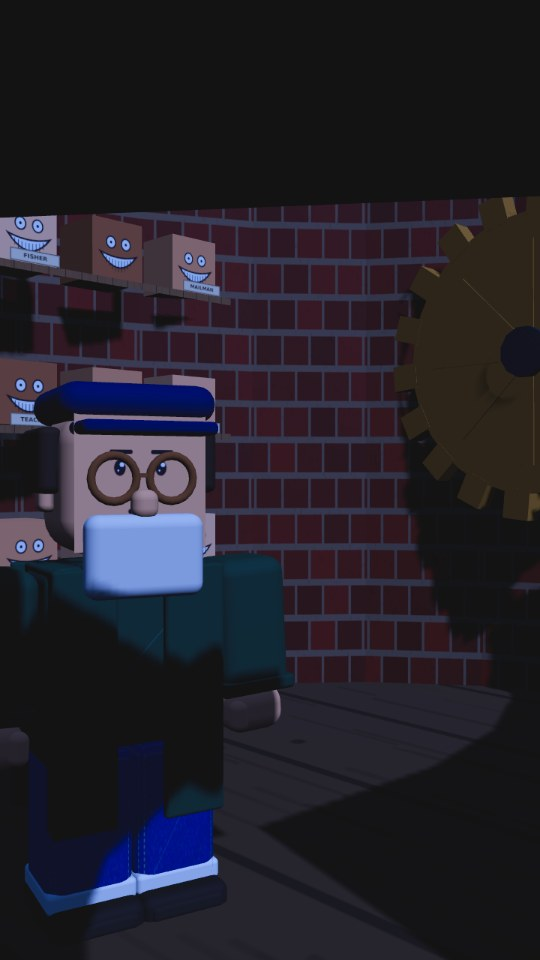
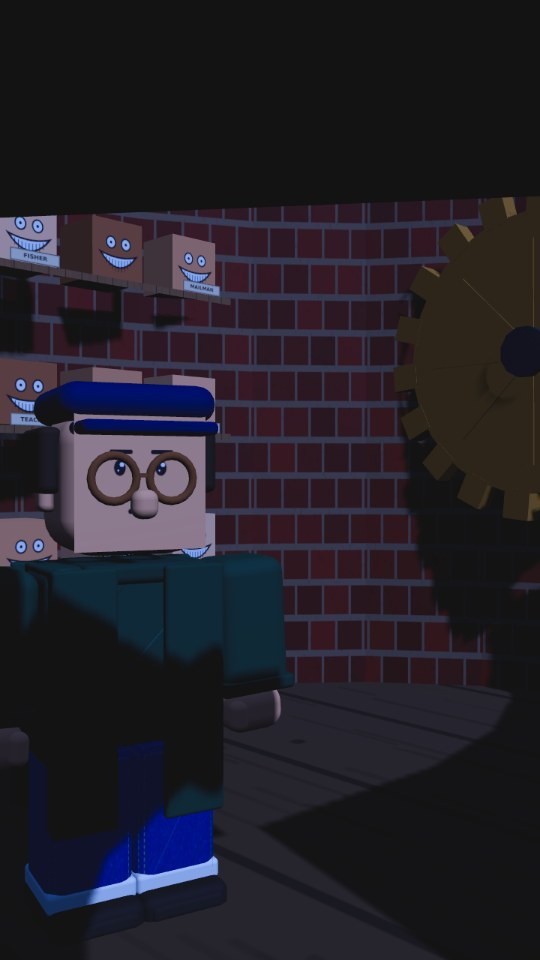
Smile preview: lighthouse keeper without a beard
Claude-Session: https://claude.ai/code/session_015cysGVtzFBcW8zaH4Ua152

Changed region(s): [[0.1481, 0.5312, 0.3852, 0.625]]

diff --git a/pisa-short/app/src/videos/smile/cast.ts b/pisa-short/app/src/videos/smile/cast.ts
@@ -186,7 +186,7 @@ const TOWN: Outfit[] = [
 ];
 const PJC = ["#c8463a", "#3a9a5a", "#e0a82a", "#8a4ab0"];
 const PJ = (o: Outfit, k: number): Outfit => ({ ...o, jacket: PJC[k % 4], stripes: "stripe", pants: PJC[k % 4], dress: o.dress ? PJC[k % 4] : undefined, apron: undefined, hat: o.hat === "chef" || o.hat === "cap" ? "hair" : o.hat, hairStyle: o.hat === "chef" || o.hat === "cap" ? "side" : o.hairStyle, waist: undefined, buttons: undefined, boots: "#5a4a6a" });
-const KEEPER: Outfit = { jacket: "#2f4a3a", stripes: "plain", pants: "#3a3a42", boots: "#2a2420", hat: "cap", cap: "#24365e", beard: "#e8e4dc", skin: SK[1], build: "stout", raincoat: "#2f4a3a", glasses: "#8a5a34" };
+const KEEPER: Outfit = { jacket: "#2f4a3a", stripes: "plain", pants: "#3a3a42", boots: "#2a2420", hat: "cap", cap: "#24365e", skin: SK[1], build: "stout", raincoat: "#2f4a3a", glasses: "#8a5a34" };
 
 // ---------------- per-shot staging ----------------
 const leo = (ex: Mood, fo: Extra, p: V3, o: Outfit = LEO) => put(1, o, p, SC.hero, ex, fo);
